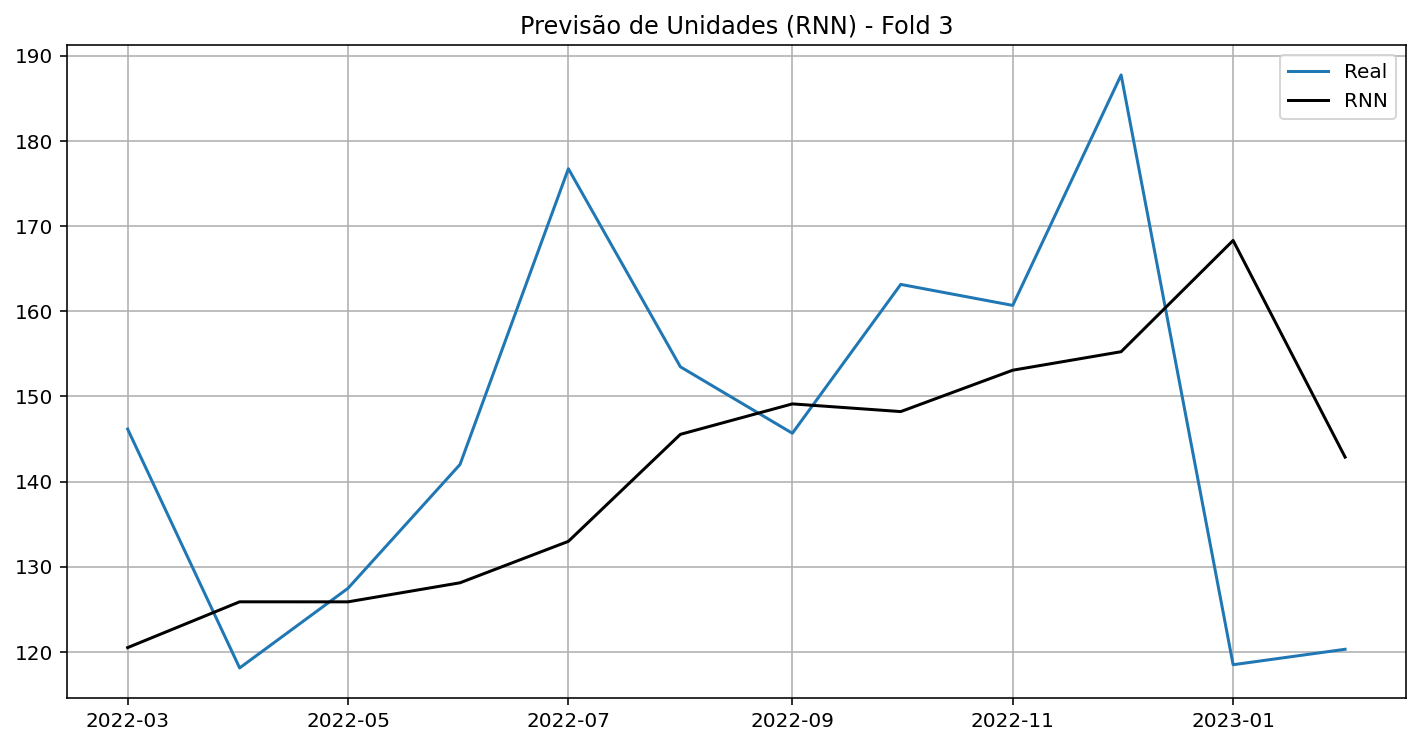
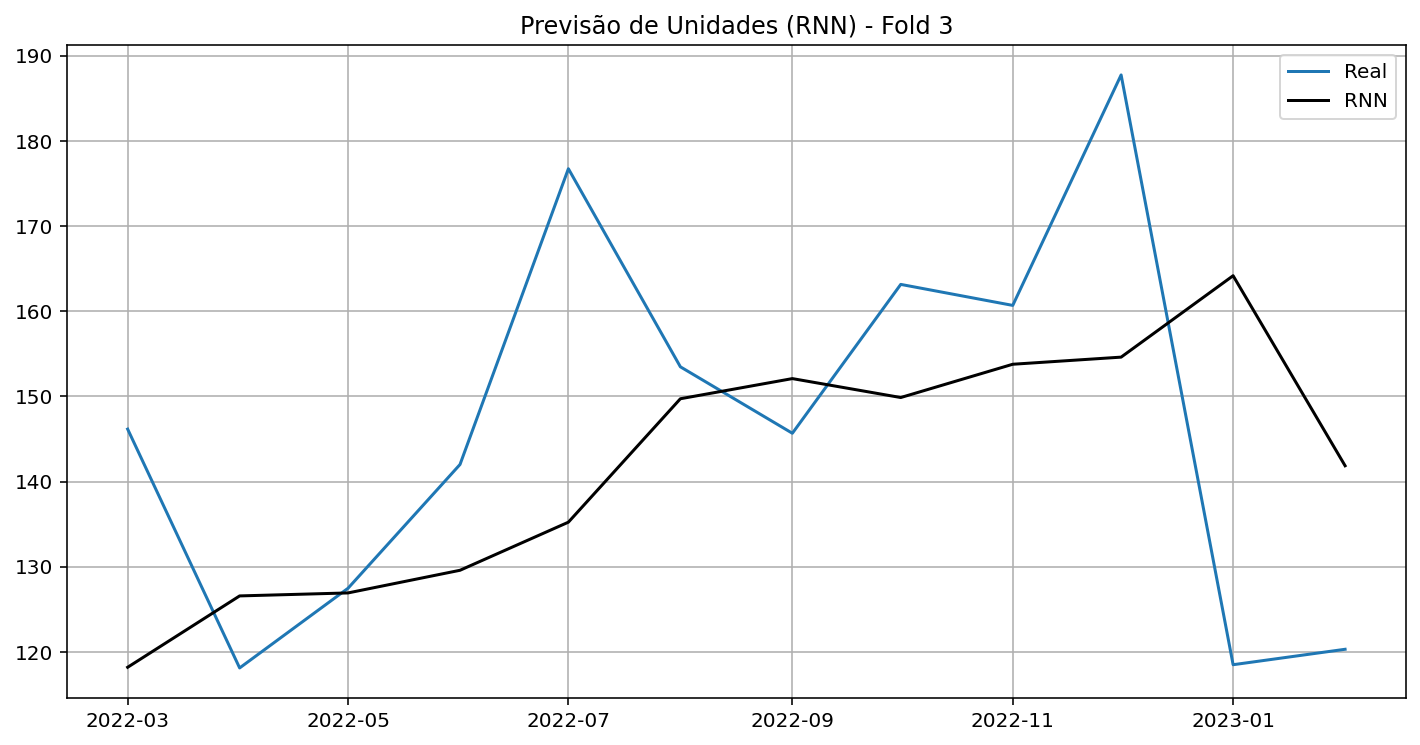
Mais detalhes

diff --git a/index.html b/index.html
@@ -582,8 +582,8 @@ Cada valor da série recebe colunas com valores anteriores (<code>lag_1</code>, 
 <span id="cb6-7"><a href="#cb6-7"></a></span>
 <span id="cb6-8"><a href="#cb6-8"></a>lags <span class="op">=</span> <span class="dv">12</span></span>
 <span id="cb6-9"><a href="#cb6-9"></a>df_lagged <span class="op">=</span> create_lagged_features(df[<span class="st">'Unidades'</span>], lags<span class="op">=</span>lags)</span>
-<span id="cb6-10"><a href="#cb6-10"></a>df_lagged.head()</span></code><button title="Copy to Clipboard" class="code-copy-button"><i class="bi"></i></button></pre></div>
-<div id="lags" class="cell-output cell-output-display" data-execution_count="5">
+<span id="cb6-10"><a href="#cb6-10"></a>display(df_lagged.head(<span class="dv">4</span>).iloc[:, :<span class="dv">7</span>]) </span></code><button title="Copy to Clipboard" class="code-copy-button"><i class="bi"></i></button></pre></div>
+<div id="lags" class="cell-output cell-output-display">
 <div>
 <style scoped="">
     .dataframe tbody tr th:only-of-type {
@@ -610,21 +610,9 @@ Cada valor da série recebe colunas com valores anteriores (<code>lag_1</code>, 
 <th data-quarto-table-cell-role="th">lag_4</th>
 <th data-quarto-table-cell-role="th">lag_5</th>
 <th data-quarto-table-cell-role="th">lag_6</th>
-<th data-quarto-table-cell-role="th">lag_7</th>
-<th data-quarto-table-cell-role="th">lag_8</th>
-<th data-quarto-table-cell-role="th">lag_9</th>
-<th data-quarto-table-cell-role="th">lag_10</th>
-<th data-quarto-table-cell-role="th">lag_11</th>
-<th data-quarto-table-cell-role="th">lag_12</th>
 </tr>
 <tr class="odd">
 <th data-quarto-table-cell-role="th">Data</th>
-<th data-quarto-table-cell-role="th"></th>
-<th data-quarto-table-cell-role="th"></th>
-<th data-quarto-table-cell-role="th"></th>
-<th data-quarto-table-cell-role="th"></th>
-<th data-quarto-table-cell-role="th"></th>
-<th data-quarto-table-cell-role="th"></th>
 <th data-quarto-table-cell-role="th"></th>
 <th data-quarto-table-cell-role="th"></th>
 <th data-quarto-table-cell-role="th"></th>
@@ -644,12 +632,6 @@ Cada valor da série recebe colunas com valores anteriores (<code>lag_1</code>, 
 <td>302.913</td>
 <td>234.777</td>
 <td>242.711</td>
-<td>234.533</td>
-<td>217.040</td>
-<td>234.608</td>
-<td>211.418</td>
-<td>232.623</td>
-<td>234.956</td>
 </tr>
 <tr class="even">
 <td data-quarto-table-cell-role="th">2015-05-01</td>
@@ -660,12 +642,6 @@ Cada valor da série recebe colunas com valores anteriores (<code>lag_1</code>, 
 <td>206.162</td>
 <td>302.913</td>
 <td>234.777</td>
-<td>242.711</td>
-<td>234.533</td>
-<td>217.040</td>
-<td>234.608</td>
-<td>211.418</td>
-<td>232.623</td>
 </tr>
 <tr class="odd">
 <td data-quarto-table-cell-role="th">2015-06-01</td>
@@ -676,12 +652,6 @@ Cada valor da série recebe colunas com valores anteriores (<code>lag_1</code>, 
 <td>149.828</td>
 <td>206.162</td>
 <td>302.913</td>
-<td>234.777</td>
-<td>242.711</td>
-<td>234.533</td>
-<td>217.040</td>
-<td>234.608</td>
-<td>211.418</td>
 </tr>
 <tr class="even">
 <td data-quarto-table-cell-role="th">2015-07-01</td>
@@ -692,28 +662,6 @@ Cada valor da série recebe colunas com valores anteriores (<code>lag_1</code>, 
 <td>189.859</td>
 <td>149.828</td>
 <td>206.162</td>
-<td>302.913</td>
-<td>234.777</td>
-<td>242.711</td>
-<td>234.533</td>
-<td>217.040</td>
-<td>234.608</td>
-</tr>
-<tr class="odd">
-<td data-quarto-table-cell-role="th">2015-08-01</td>
-<td>172.630</td>
-<td>186.995</td>
-<td>175.261</td>
-<td>175.618</td>
-<td>179.223</td>
-<td>189.859</td>
-<td>149.828</td>
-<td>206.162</td>
-<td>302.913</td>
-<td>234.777</td>
-<td>242.711</td>
-<td>234.533</td>
-<td>217.040</td>
 </tr>
 </tbody>
 </table>
@@ -737,7 +685,7 @@ Cada valor da série recebe colunas com valores anteriores (<code>lag_1</code>, 
 <span id="cb7-4"><a href="#cb7-4"></a><span class="co"># Escalonador (fit no dataset completo só para exemplo)</span></span>
 <span id="cb7-5"><a href="#cb7-5"></a>scaler <span class="op">=</span> StandardScaler()</span>
 <span id="cb7-6"><a href="#cb7-6"></a>X_scaled <span class="op">=</span> scaler.fit_transform(X)</span>
-<span id="cb7-7"><a href="#cb7-7"></a>X_scaled[:<span class="dv">5</span>]</span></code><button title="Copy to Clipboard" class="code-copy-button"><i class="bi"></i></button></pre></div>
+<span id="cb7-7"><a href="#cb7-7"></a>X_scaled[:<span class="dv">3</span>]</span></code><button title="Copy to Clipboard" class="code-copy-button"><i class="bi"></i></button></pre></div>
 <div id="features" class="cell-output cell-output-display" data-execution_count="6">
 <pre><code>array([[ 1.20067726, -0.07857256,  1.69886005,  4.29006269,  2.25523529,
          2.38644951,  2.09740283,  1.60195134,  2.00616379,  1.37498133,
@@ -747,13 +695,7 @@ Cada valor da série recebe colunas com valores anteriores (<code>lag_1</code>, 
          1.3316081 ,  1.82126615],
        [ 0.74903639,  0.85863933,  1.18307238, -0.11409029,  1.45171896,
          4.03136914,  2.10393   ,  2.28127926,  2.00421577,  1.52011029,
-         1.9232482 ,  1.2890841 ],
-       [ 0.73771444,  0.74369976,  0.84657495,  1.03757478, -0.13015379,
-         1.38780881,  3.92661542,  2.07132298,  2.21662819,  1.97168286,
-         1.47504064,  1.87108371],
-       [ 1.109848  ,  0.73231739,  0.73252143,  0.73158418,  0.99392666,
-        -0.15142416,  1.33845883,  3.87439596,  2.01055334,  2.18279361,
-         1.92133475,  1.43017948]])</code></pre>
+         1.9232482 ,  1.2890841 ]])</code></pre>
 </div>
 </div>
 </section>
@@ -894,7 +836,7 @@ dtype: int64</code></pre>
 <section id="mlp" class="slide level2" data-menu-title="Modelo MLP">
 <h2></h2>
 <p><span class="slide-title">Modelo</span></p>
-<p><span class="custom-subtitle2">Multilayer Perception</span></p>
+<p><span class="custom-subtitle2">Multi-layer Perceptron</span></p>
 <hr>
 <div id="mlp" class="cell" data-execution_count="20">
 <div class="sourceCode cell-code" id="cb14"><pre class="sourceCode numberSource python number-lines code-with-copy"><code class="sourceCode python"><span id="cb14-1"><a href="#cb14-1"></a><span class="co"># Treinar MLP</span></span>
@@ -926,14 +868,14 @@ dtype: int64</code></pre>
 </section>
 <section id="mlp_pred" class="slide level2" data-menu-title="Modelo MLP: Gráfico">
 <h2></h2>
-<p><span class="slide-title">Modelo Multilayer Perception</span></p>
+<p><span class="slide-title">Modelo Multi-layer Perceptron</span></p>
 <p><span class="custom-subtitle2">Previsão</span></p>
 <hr>
 
 <img data-src="index_files/figure-revealjs/plot_pred-output-1.png" id="plot_pred" class="r-stretch"></section>
 <section id="mlp_pred_series" class="slide level2" data-menu-title="Modelo MLP: Gráfico de predição">
 <h2></h2>
-<p><span class="slide-title">Modelo Multilayer Perception</span></p>
+<p><span class="slide-title">Modelo Multi-layer Perceptron</span></p>
 <p><span class="custom-subtitle2">Previsão na série temporal</span></p>
 <hr>
 
@@ -1017,7 +959,7 @@ dtype: int64</code></pre>
 <div class="sourceCode cell-code" id="cb20"><pre class="sourceCode numberSource python number-lines code-with-copy"><code class="sourceCode python"><span id="cb20-1"><a href="#cb20-1"></a>rmse_rnn <span class="op">=</span> np.sqrt(mean_squared_error(y_test, y_pred_rnn))</span>
 <span id="cb20-2"><a href="#cb20-2"></a><span class="bu">print</span>(<span class="ss">f"RMSE: </span><span class="sc">{</span>rmse_rnn<span class="sc">:.4f}</span><span class="ss">"</span>)</span></code><button title="Copy to Clipboard" class="code-copy-button"><i class="bi"></i></button></pre></div>
 <div class="cell-output cell-output-stdout">
-<pre><code>RMSE: 24.5447</code></pre>
+<pre><code>RMSE: 23.5534</code></pre>
 </div>
 </div>
 </section>
@@ -1031,7 +973,7 @@ dtype: int64</code></pre>
 <section id="rnn4" class="slide level2" data-menu-title="Rede Neural Recorrente">
 <h2></h2>
 <p><span class="slide-title">Modelo Rede Neural Recorrente</span></p>
-<p><span class="custom-subtitle2">Previsão na série</span></p>
+<p><span class="custom-subtitle2">Previsão na série temporal</span></p>
 <hr>
 
 <img data-src="index_files/figure-revealjs/rnn4-output-1.png" id="rnn4" class="r-stretch"></section>
